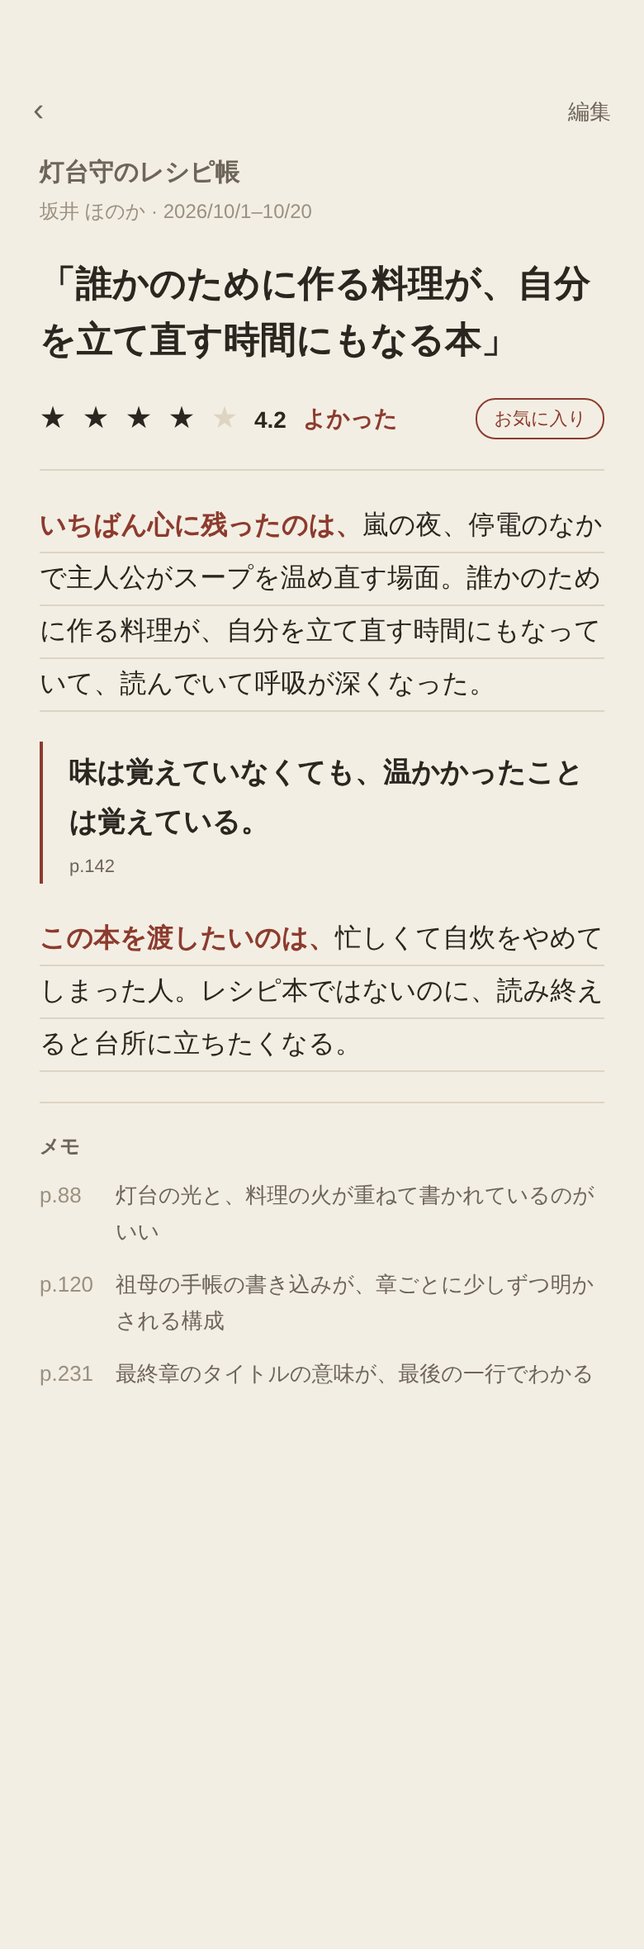
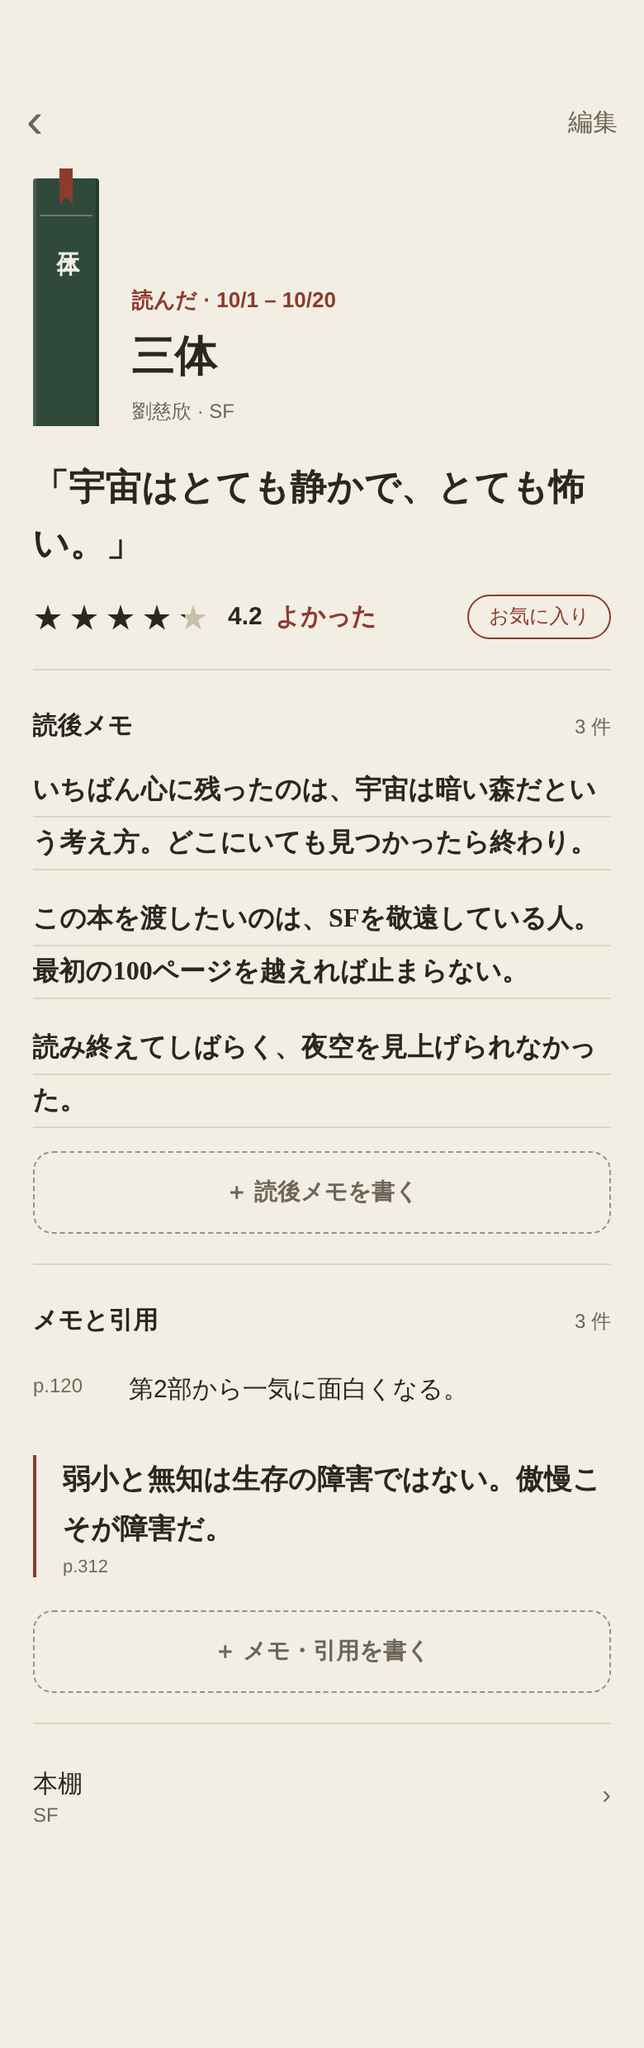
docs(design): 書き出しを「読後メモ」と「ヒント」に作り直す (#180)
- 読後メモ: 「この本をひとことで」とは別の、文章のリスト。書き出しと本文を区別しない
- 書く画面: 大きな入力欄 1 つと、ヒント 3 つ（押すと最後に改行して入る）。「引用として残す」はなくす
- ヒントは固定の 22 個（6 種類）。設定画面の「書き出しの管理」はなくす
- 読み返す画面: 「読後メモ」の段と入口、読後メモ・ひとこと・評価を直すシート
- 振り返りの「今年いちばん使った書き出し」をなくす
- 部品 Hint を追加し、Starter を廃止予定に。ブランドブックの書き方、CLAUDE.md の文言を更新
- 画像: reread / write を差し替え、reread-empty / memo-edit / oneline-edit を追加、starters を削除（撮影用シーンも足す）

Claude-Session: https://claude.ai/code/session_016NC3wkCsT2FEzCJ1C3j9w4

diff --git a/docs/design-system/screens/README.md b/docs/design-system/screens/README.md
@@ -4,9 +4,9 @@
 
 - 画面を作る・変えるときは、該当する画像と下の説明を見て、その見た目に合わせる。
 - 色・文字・余白・角丸は画像から読み取らず、`app/src/design/tokens.ts` のトークンを使う。
-- 使う部品は `../components/`（Spine、Shelf、Starter、Quote、MemoRow、RatingStars、Button、Chip、Toggle、TextField、BottomSheet、TabBar、EmptyState）。**画像と部品の README が食い違うときは、部品の README を優先する。**
+- 使う部品は `../components/`（Spine、Shelf、Hint、Quote、MemoRow、RatingStars、Button、Chip、Toggle、TextField、BottomSheet、TabBar、EmptyState）。**画像と部品の README が食い違うときは、部品の README を優先する。**
 - 画像の本・作者・文章はサンプル。`[出版社名]` `[ISBN]` は実際の値が入る場所。
-- 元データは claude.ai のデザインキャンバスの「読後ノート 全画面（案1）」ページ。直したら、ここの画像も書き出し直す。
+- 元データは claude.ai のデザインキャンバスの「読後ノート 全画面（案1）」ページ（読後メモまわりは「読後メモ（改善案）」ページ）。直したら、ここの画像も書き出し直す。
 
 ## 前のデザインから変わる点（まとめ）
 
@@ -16,12 +16,12 @@
 | 一覧 | 書影の4列グリッド、大きく出す作品の横並び | **背表紙の棚**。上部で本棚（すべての本／自分で作った本棚）とステータスを切り替える |
 | 本の分類 | 種別 | **本棚（タグ）**。1冊を複数の本棚に入れられる |
 | 書影 | 主役 | 使わない（背表紙の色を本ごとに選ぶ） |
-| 感想 | 自由記述の1欄 | **書き出しの続き**、引用、メモ、ひとこと、自由に書く |
+| 感想 | 自由記述の1欄 | **この本をひとことで**と**読後メモ**（ヒントを入れながら書く文章のリスト）。読みながらはメモと引用 |
 | 評価 | 「評価」と数字 | 「どうだった？」と数字＋言葉（最高・よかった・まあまあ・あんまり） |
 | 勧めたい | 「人に勧めたい」 | **お気に入り**（背表紙に朱の栞） |
-| 詳細画面 | 書影が主役 | **読み返す画面**（ひとこと → 書き出しの続きと引用 → メモ） |
+| 詳細画面 | 書影が主役 | **読み返す画面**（この本をひとことで → 読後メモ → メモと引用） |
 | 地の色 | 黒 | 生成りの紙 |
-| 設定 | 使う種別、記録する項目、大きく出す作品 など | 書き出し、ステータスの初期値、本棚の管理、並び順、データ、このアプリについて |
+| 設定 | 使う種別、記録する項目、大きく出す作品 など | ステータスの初期値、本棚の管理、並び順、データ、このアプリについて |
 
 ## 本棚と本を追加
 
@@ -112,30 +112,50 @@
 - 「読み終えた」を押したあとの画面。背表紙と棚板、「読み終えた」（`ribbon`）、タイトル、「10/18 – 10/26 · 9 日間 · メモ 4 件」。
 - 「どうだった？」: `RatingStars` の入力、数字と言葉（「4.5 よかった」）、言葉の目安。
 - 「お気に入りにする」（`Toggle`）。
-- 下に固定: 主ボタン「記録を書く」（書き出しの続きを書く画面へ）、「あとで書く」。
+- 下に固定: 主ボタン「記録を書く」（読後メモを書く画面へ）、「あとで書く」。
 - 読み終えた日には今日を入れる（ここでは表示だけ。変えたいときは編集で）。
 
-### 書き出しの続きを書く — `write.png`
+### 読後メモを書く — `write.png`
 
 ![](write.png)
 
-- 「読み終えた」、タイトル、作者。「書き出しを選んで、続きを書こう」と、書いた数（1 / 3）。
-- 一番上に「ひとことで言うと、」の欄。その下に `Starter` のカードを設定の数だけ。
-- 「↻ ほかの書き出しを見る」（オンの書き出しから入れ替える）、「自由に書く」（書き出しなしの欄を足す）。
-- 上の「あとで」で閉じても、書いた分は残る。下に固定の主ボタン「ここまでを残す」。
-- 設定で書き出しをオフにしているときは、「ひとことで言うと、」と自由に書く欄だけ。
+- 上: 「あとで」と「読了 M/D」。「読後メモを書く」、タイトル、作者。
+- 「この本をひとことで」の欄（`one-line` の明朝、1〜2 行）。読後メモとは別の項目。すでにあれば入っている。
+- 「読後メモ」の大きな入力欄が 1 つ（`reading` の明朝）。読み返す画面から開いたときは空で始める（書き足すと 1 件増える）。
+- 入力欄の下に「ヒント」を 3 つ（`Hint`）。押すと今の文章の最後に改行して入る。「↻ ほかのヒント」。キーボードを開いているあいだは、ヒントの行をキーボードのすぐ上に出す。
+- 下に固定の主ボタン「残す」。「あとで」で閉じても、書いた分は下書きとして残る。
+- 「引用として残す」は置かない（引用は「メモと引用」から書く）。
 
 ### 読み返す — `reread.png`
 
 ![](reread.png)
 
-- 本の画面（読み終えた本）。人に勧める前に、30 秒で思い出せることが目標。
-- 上: タイトル（明朝・`text-secondary`）、「作者 · 読んだ期間」。右上に「編集」。
-- ひとこと（`one-line`、「」付き）を一番大きく。
-- 星・数字・言葉（「4.2 よかった」）と、お気に入りなら「お気に入り」の印。
-- 区切り線の下に、書き出しの続き（`Starter` の組み方。罫線付き）と引用（`Quote`）を、書いた順に。自由に書いた文章も同じ流れで。
-- 区切り線の下に「メモ」（`MemoRow`、ページ順）。
-- 下の方に「本棚」（この本が入っている本棚。タップで本棚を選ぶシート）、「書き出しの続きを書く」（あとから足せる）。
+- 本の画面（読んだ・読みたい・途中でやめた本）。人に勧める前に、30 秒で思い出せることが目標。
+- 上部は読んでる本の画面と同じ組み（背表紙、ステータスと日付、タイトル、「作者 · 本棚」）。右上に「編集」。
+- 「この本をひとことで」（`one-line`、「」付き）を一番大きく。その下に星・数字・言葉と「お気に入り」の印。どちらも押すと、直すシートが開く。
+- 区切り線の下に「読後メモ」の段と件数。読後メモを書いた順に、`reading` の明朝・罫線付きで並べる（ヒントから入れた文も区別しない）。押すと「読後メモを直す」。段の最後に「＋ 読後メモを書く」（点線のボタン）。
+- 区切り線の下に「メモと引用」の段と件数（読んでる本の画面と同じ並べ方・ページ順）。段の最後に「＋ メモ・引用を書く」。
+- 一番下に「本棚」の行。
+
+### 読み返す（読後メモなし） — `reread-empty.png`
+
+![](reread-empty.png)
+
+- 「読後メモ」の段の中に、案内（「読み終えた直後の言葉を残しておくと、あとで人に勧めるときに助けになります。…」）と「＋ 読後メモを書く」だけを出す。
+
+### 読後メモを直す — `memo-edit.png`
+
+![](memo-edit.png)
+
+- 読み返す画面で読後メモを押すと開く `BottomSheet`。上に本のタイトルと「閉じる」、見出し「読後メモを直す」。
+- 入力欄は 1 つ（全文。`reading` の明朝）。主ボタン「保存する」、下に「この読後メモを削除」（`danger` の文字ボタン、確認あり）。
+
+### この本をひとことで・どうだった？を直す — `oneline-edit.png`
+
+![](oneline-edit.png)
+
+- 読み返す画面でひとことか評価を押すと開く `BottomSheet`。
+- 「この本をひとことで」の入力欄、「どうだった？」の `RatingStars`（なぞって 0.1 刻み）と数字・言葉、「お気に入り」の `Toggle`。主ボタン「保存する」。
 
 ## 振り返りと設定
 
@@ -144,26 +164,16 @@
 ![](review.png)
 
 - 見出し「振り返り」と期間（直近 12 か月）。
-- 3つの数字: 読んだ（冊）、感想（書き出しの続きを1つ以上書いた本の数）、引用。
+- 3つの数字: 読んだ（冊）、感想（読後メモを1件以上書いた本の数）、引用。
 - 「月ごとに読んだ本」: 1冊を1段にして、その本の背表紙の色で積み上げる。今月のラベルだけ墨。
 - 「今年のお気に入り」: お気に入りの本を `Shelf` で並べる。
 - 「どうだった？」: 平均（数字と言葉）と、最高・よかった・まあまあ・あんまり の冊数（いちばん多い段だけ墨）。
-- 「今年いちばん使った書き出し」と回数。
 
 ### 設定 — `settings.png`
 
 ![](settings.png)
 
-- 「読み終えたら」: 書き出し（「オン · 一度に 3 つ · 7 個から」）、ステータスの初期値。
+- 「読み終えたら」: ステータスの初期値。（画像にある「書き出し」の行はなくした）
 - 「本棚」: 本棚の管理（名前の変更・並べ替え・削除）、並び順。
 - 最後のカード: データ（書き出し・読み込み・すべての記録を削除）、このアプリについて。
 - データ・書き出し・読み込み・すべての記録を削除・このアプリについての各画面は、今の実装の構成のまま、見た目だけ書斎のトークンに合わせる（画像なし）。
-
-### 書き出しの管理 — `starters.png`
-
-![](starters.png)
-
-- 「読み終えたら書き出しを出す」（`Toggle`、オフで自由に書く欄だけ）。
-- 「一度に出す数」（2・3・5、`Chip` 単一選択）。
-- 書き出しの一覧（明朝）と、それぞれの `Toggle`。「ひとことで言うと、」は「固定」でオフにできない。自分で足したものには「自分で追加」。
-- 「＋ 自分の書き出しを追加」。自分で足したものは、名前の変更と削除ができる。

diff --git a/docs/design-system/README.md b/docs/design-system/README.md
@@ -19,11 +19,11 @@
 
 迷ったら上の原則を優先する。
 
-1. **自分の言葉が主役**: 画面でいちばん大きく、いちばん良い書体で組むのは、ユーザーが書いた言葉（ひとこと、書き出しの続き、引用）。UI の文字は控えめにする
+1. **自分の言葉が主役**: 画面でいちばん大きく、いちばん良い書体で組むのは、ユーザーが書いた言葉（この本をひとことで、読後メモ、引用）。UI の文字は控えめにする
 2. **読み返すために組む**: 記録は、あとで人に勧めるときに 30 秒で思い出せるように組む。書いた順ではなく、読む順に並べる
-3. **書かせない、続きを書かせる**: 白紙の感想欄ではなく「書き出し」を差し出し、続きを書いてもらう。答えるのも答えないのも自由
+3. **書かせない、続きを書かせる**: 白紙の感想欄だけにせず、書き始めの「ヒント」（「いちばん心に残ったのは、」など）を差し出す。使うのも使わないのも自由
 4. **背表紙の棚で積み上げる**: 本は背表紙で並べる。書影がなくても、棚が埋まっていく様子で積み上がりを見せる
-5. **紙と墨と朱**: 色は、紙（地）・墨（文字と主ボタン）・朱（栞と書き出し）と、背表紙の色だけ。足さない
+5. **紙と墨と朱**: 色は、紙（地）・墨（文字と主ボタン）・朱（栞と特別な印）と、背表紙の色だけ。足さない
 6. **削る勇気**: 迷ったら足さない。遊びの飾りも、意味がはっきりしているものだけ
 
 ## 色
@@ -31,7 +31,7 @@
 - 地は `bg`（生成りの紙）。カード・シート・入力欄は `surface-1`（明るい紙）、控えめな面は `surface-2` の2段。
 - 文字は `text-primary`（墨）/ `text-secondary` / `text-tertiary` の3段。`text-tertiary` は `bg` と `surface-1` の上だけで使う。
 - **主ボタン・選択中のチップ・評価の星は `accent`（墨）**、その上の文字は `accent-ink`（紙）。
-- **朱 `ribbon` は特別な場所だけ**: お気に入りの栞、書き出しの文字、引用の左の線、選択中のタブの下線、評価の言葉、トグルのオン。1画面に数か所まで。
+- **朱 `ribbon` は特別な場所だけ**: お気に入りの栞、引用の左の線、選択中のタブの下線、評価の言葉、トグルのオン。1画面に数か所まで。
 - 背表紙の色は `spine-1`〜`spine-10`。タイトルは `spine-ink`（どの背表紙の上でも 4.5:1 以上）。本を登録するときに選べて、初期値は順に割り当てる。
 - 本棚の棚板は `shelf-board`。その下にだけ影（`shadow-cover`）を付ける。
 - `danger` は取り消せない操作の文字と枠だけ。赤い面は作らない。
@@ -40,8 +40,8 @@
 ## 文字
 
 - **UI は `sans`（Noto Sans JP）**: ボタン、ラベル、チップ、設定、説明文。太さは 400 / 700 / 900。
-- **本と自分の言葉は `serif`（しっぽり明朝）**: 画面タイトル（`screen-title`）、本のタイトル（`book-title`）、ひとこと（`one-line`）、書き出し（`starter`）、その続き（`reading`）、引用（`quote`）、背表紙（`spine-title`）。太さは 600 / 800（読み込んでいるのはこの2つ）。
-- 書き出しは `starter`（朱・太字）で、続きの `reading` と**一続きの文章として**組む（改行しない）。
+- **本と自分の言葉は `serif`（しっぽり明朝）**: 画面タイトル（`screen-title`）、本のタイトル（`book-title`）、この本をひとことで（`one-line`）、読後メモ（`reading`）、引用（`quote`）、背表紙（`spine-title`）。太さは 600 / 800（読み込んでいるのはこの2つ）。
+- 読後メモは `reading` の明朝で組む。ヒントから入れた文も、ユーザーが書いた文章の一部として同じ見た目にする（朱や太字で区別しない）。
 - 読み返す画面の本文は、行の高さ 32px の罫線（`line`）を引いて、ノートに書いたように見せる。
 - 数字は `display-number`。10.5px（`micro`）より小さい文字は使わない。
 
@@ -63,7 +63,7 @@
 
 - 画面の文言は短く、やわらかく。「評価」「問い」「感想を入力」のような堅い言葉を使わない。
   - 評価は「どうだった？」と聞き、点数に言葉を添える: 5.0「最高」、4.0〜4.9「よかった」、3.0〜3.9「まあまあ」、2.9 以下「あんまり」
-  - 読み終えたあとに書く手がかりは「**書き出し**」（例: 「いちばん心に残ったのは、」）。「問い」「お題」とは呼ばない
+  - 読み終えたあとに書く感想は「**読後メモ**」。書き始めの手がかりは「**ヒント**」（例: 「いちばん心に残ったのは、」）。「問い」「お題」「書き出し」とは呼ばない
   - 読み終えたあとの主ボタンは「記録を書く」
 - ステータスは「読みたい」「読んでる」「途中でやめた」「読み終わった」。漫画も本として扱い、区別しない。
 - 「お気に入り」は、人に勧めたい本・特別な本の印。

diff --git a/docs/design-system/components/Hint/README.md b/docs/design-system/components/Hint/README.md
@@ -1,0 +1,29 @@
+# Hint（読後メモのヒント）
+
+読後メモを書くときに、書き始めの手がかりとして差し出す短い文。「いちばん心に残ったのは、」のように、読点で終わる。
+
+**読後メモを書く画面**
+
+- 大きな入力欄（読後メモ）の下に、ヒントを 3 つ、丸いボタン（`radius-full`、面 `surface-1`、枠 `line`、文字は明朝 `starter` の大きさで `text-primary`、右に「＋」）で並べる。
+- 押すと、入力欄の今の文章の**最後に改行してから**その文を入れ、カーソルをその後ろに置く。入力欄が空なら改行せずに入れる。
+- 一度入れたヒントは、面 `surface-2`・右に「✓」にする（もう一度押しても入れられる）。
+- 「↻ ほかのヒント」で 3 つを入れ替える。
+- キーボードを開いているあいだは、ヒントの行をキーボードのすぐ上に出す（入力欄と一緒にスクロールしない）。
+- 入れた文はユーザーの文章の一部。保存したあとは、ヒントから入れた部分とユーザーが書いた部分を区別しない（データにもヒントの情報を残さない）。
+
+**ヒントの一覧（固定。設定で変えることはできない）**
+
+| 種類 | ヒント |
+|---|---|
+| 感じたこと | いちばん心に残ったのは、／思わず読む手が止まったのは、／意外だったのは、／読み終えて、最初に浮かんだのは、／少し引っかかったのは、 |
+| 中身 | この本をひとつの場面で表すなら、／作者がいちばん伝えたかったのは、たぶん／いちばん好きな登場人物は、／いちばん役に立ちそうなのは、 |
+| 自分ごと | 自分のことのように感じたのは、／読み終えて、見方が変わったのは、／明日から試してみたいのは、／昔の自分に読ませたいのは、なぜなら |
+| つながり | 似ていると思ったのは、／この本の次に読みたいのは、 |
+| 人に勧める | この本を渡したいのは、／まだ読んでいない人に言いたいのは、／この本のいいところを一つだけ言うなら、 |
+| 合わなかったとき | 合わなかったのは、／期待していたのとちがったのは、／それでも残ったのは、 |
+
+**出し方**
+
+- 一度に 3 つ。「感じたこと」から 1 つ、「中身・自分ごと・つながり」から 1 つ、「人に勧める」から 1 つ、それぞれランダムに選ぶ。
+- 「どうだった？」が「あんまり」（2.9 以下）の本では、「中身・自分ごと・つながり」の 1 つの代わりに「合わなかったとき」から 1 つ出す。
+- 「↻ ほかのヒント」は、同じ決まりで、今出ているものと別のものを選ぶ。

diff --git a/docs/design-system/components/Starter/README.md b/docs/design-system/components/Starter/README.md
@@ -1,21 +1,6 @@
-# Starter（書き出し）
+# Starter（書き出し）— 廃止予定
 
-読み終えたあとに、続きを書いてもらうための文の書き始め。「いちばん心に残ったのは、」のように、読点で終わる。
+読後メモ（`Hint` と、読み返す画面の読後メモ）に置き換えた。画面を作り替えたら、この部品と `starter` の組み方（朱の書き出し＋続き）は使わない。新しいコードでは使わないこと。
 
-**続きを書く画面のカード**
-
-- 選んでいるカード: 面 `surface-1`、枠 `ribbon` 1.5px、角丸 `radius-card`。書き出しを `starter`（ここでは `text-primary`）で上に、その下に続きを書く入力欄（`reading` の明朝、面 `bg`、枠 `text-primary`）。入力欄の下に「ページ」（任意）と「引用として残す」。
-- 選んでいないカード: 面 `surface-1`、枠 `line`。書き出しと、右に「書く」。タップで選ぶ。
-- 「ひとことで言うと、」はいつも一番上に、小さな欄で出す（`surface-2`）。
-
-**読み返すときの組み方**
-
-- 書き出しを `starter`（`ribbon`）で、続きの `reading` と**一続きの文章として**組む（改行しない）。例: 「**いちばん心に残ったのは、**嵐の夜、停電のなかで…」
-- 書き出しが空のまま（続きを書かなかった）のものは出さない。
-
-**書き出しの一覧（初期値）**
-
-ひとことで言うと、（固定・いつも出す）／いちばん心に残ったのは、／読み終えて、見方が変わったのは、／この本を渡したいのは、／似ていると思ったのは、／作者がいちばん伝えたかったのは、たぶん／自分のことのように感じたのは、／少し引っかかったのは、
-
-- ユーザーは書き出しを足す・オフにすることができる。読み終えたときに、オンのものからランダムに設定の数（2・3・5、初期値 3）を出す。
-- 保存するときは、書いたときの書き出しの文も一緒に残す（あとで書き出しを編集しても、過去の記録の文章は変わらない）。
+- 読後メモを書く画面のヒント → `../Hint/README.md`
+- 読み返す画面の読後メモ → `../../screens/README.md` の「読み返す」

diff --git a/docs/design-system/components/TextField/README.md b/docs/design-system/components/TextField/README.md
@@ -3,6 +3,6 @@
 - 見出しは入力欄の上に `label` の太字・`text-secondary`。必須の項目は「（必須）」を付ける。
 - 入力欄は面 `surface-1`、枠 `line`、角丸 10〜12px、高さ `button-height`、左右の余白 14px。文字は `body`。
 - フォーカス中は枠を `text-primary` にする。エラーは入力欄の下に `label`・`danger` で出し、枠も `danger`。
-- 本のタイトル、書き出しの続き、引用の入力は明朝（`reading` / `quote`）。それ以外は UI の書体。
+- 本のタイトル、この本をひとことで、読後メモ、引用の入力は明朝（`one-line` / `reading` / `quote`）。それ以外は UI の書体。
 - 複数行は高さ 120px から、内容に合わせて伸ばす。
 - ページ番号の欄は小さく（幅 80px、高さ 40px）、数字キーボード。「なくても大丈夫」と添える。

diff --git a/docs/design-system/components/Toggle/README.md b/docs/design-system/components/Toggle/README.md
@@ -8,5 +8,5 @@
 | オフ | `line-strong` | `surface-1` |
 
 - 大きさ 51×31（一覧の中では 44×27 まで小さくしてよい）。行全体（高さ 52px 以上）をタップ領域にする。
-- 使う場所: お気に入りにする、書き出しを出す、書き出しごとのオン・オフ。
+- 使う場所: お気に入りにする。
 - 読み上げではスイッチとして扱い、ラベルとオン・オフを伝える。
